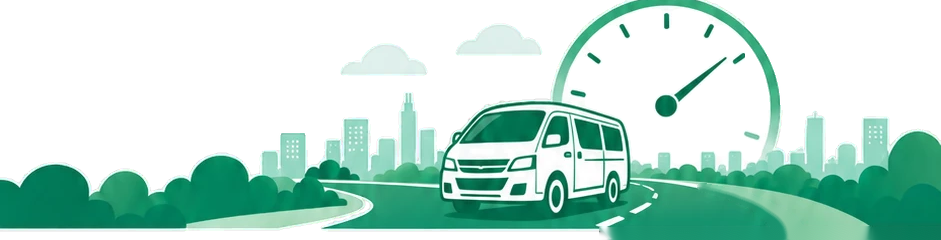
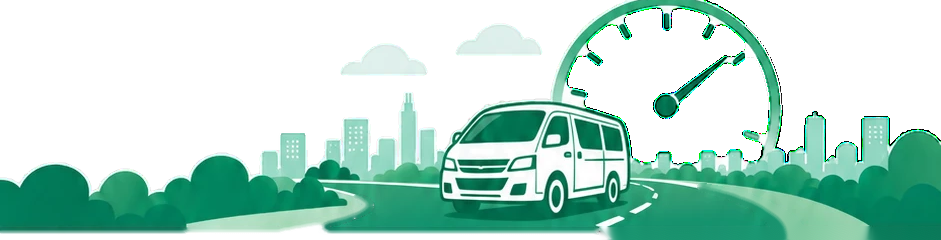
fix: メーターのリング右下が薄く色抜けしていた箇所と、道路の左側にもあった黒い切れ目を修正
前回のロード左右いっぱい表示・道路右側の穴修正では見つけられていなかった2箇所。
今回は全画面をアルファ値でスキャンし、「本来不透明であるべきなのに広い範囲で半透明になっている」
領域を機械的に検出して洗い出した:
- ダイヤルのリング右下〜中央にかけて、透過処理の過程で色が白側に寄って薄くなっていた
  → 白ブレンドを仮定して色を復元(decontaminate)しつつ不透明化
- 道路の左側(手前カーブ)にも、右側と同じ「白ハイライト線が誤って背景扱いされる」パターンの
  黒い切れ目があった → inpaintで復元

雲・スカイライン境界など、正常なアンチエイリアスは誤検出しないよう「薄い部分の厚み」で判定して除外。

diff --git a/service-worker.js b/service-worker.js
@@ -1,5 +1,5 @@
 // キャッシュ対象を変更したら CACHE_VERSION を上げること（APP_VERSIONと合わせなくてOK、SW側だけの独立カウンタ）
-const CACHE_VERSION = 4;
+const CACHE_VERSION = 5;
 const CACHE_NAME = `koutsuu-kiroku-v${CACHE_VERSION}`;
 
 const APP_SHELL = [
@@ -8,7 +8,7 @@ const APP_SHELL = [
   'app.js?v=23',
   'style.css?v=13',
   'hero-illustration.png?v=20',
-  'detail-hero.png?v=21',
+  'detail-hero.png?v=22',
   'vehicle-illustration.png',
   'logo-lockup.png?v=20',
   'logo-lockup-dark.png?v=20',

diff --git a/index.html b/index.html
@@ -95,7 +95,7 @@
 
   <div class="listScrollArea">
     <div class="listHero">
-      <img src="detail-hero.png?v=21" class="listHeroImg" alt="">
+      <img src="detail-hero.png?v=22" class="listHeroImg" alt="">
     </div>
 
     <div class="periodNavBar">
@@ -254,7 +254,7 @@
 
   <div class="listScrollArea">
   <div class="listHero">
-    <img src="detail-hero.png?v=21" class="listHeroImg" alt="">
+    <img src="detail-hero.png?v=22" class="listHeroImg" alt="">
   </div>
 
   <div class="detailBody">
